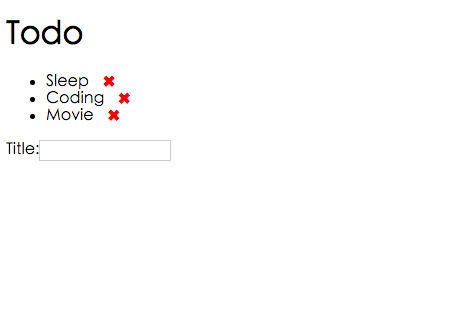
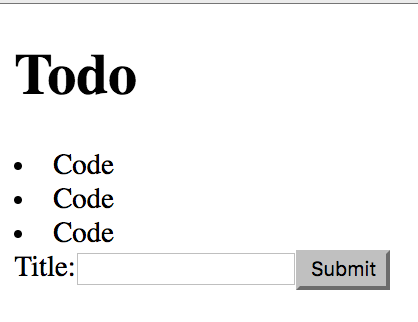
added live coding

diff --git a/example/src/index.js b/example/src/index.js
@@ -24,7 +24,8 @@ const images = {
   component3: require('../assets/component3.png'),
   component4: require('../assets/component4.png'),
   component5: require('../assets/component5.png'),
-  todo: require('../assets/todolist.png'),
+  todo1: require('../assets/todolist.png'),
+  todo2: require('../assets/todolist2.png'),
   stateComp: require('../assets/stateful-stateless.jpg'),
   smartDumb: require('../assets/smart-dumb.png'),
 };
@@ -97,7 +98,7 @@ export default class Presentation extends React.Component {
               <Heading size={2} caps fit textColor="black" textFont="primary">
                 Build a Component for ...
               </Heading>
-              <Image src={images.todo} width='1000' />
+              <Image src={images.todo1} width='400' />
             </div>
           </Appear>
         </Slide>
@@ -120,7 +121,7 @@ export default class Presentation extends React.Component {
           <Heading size={2} caps fit textColor="black" textFont="primary">
             Another Live Coding.... Let's continue!!
           </Heading>
-          <Image src={images.todo} width='1000' />
+          <Image src={images.todo2} width='400' />
         </Slide>
         <Slide id="live-coding2-res" transition={["slide"]} bgColor="black" align='center'>
           <CodePane lang="jsx" source={require("raw-loader!../assets/code/live-coding-2.example")} margin="20px auto" />
@@ -140,6 +141,30 @@ export default class Presentation extends React.Component {
         </Slide>
         <Slide id="smart-dumb" transition={["slide"]} bgColor="white" >
           <Image src={images.smartDumb} width='1000'/>
+        </Slide>
+        <Slide id="smart-dumb-1" transition={["slide"]} bgColor="black" align='center'>
+          <CodePane lang="jsx" source={require("raw-loader!../assets/code/smart-dumb-comp1.example")} margin="20px auto" />
+        </Slide>
+        <Slide id="smart-dumb-2" transition={["slide"]} bgColor="black" align='center'>
+          <Heading size={6} fit textColor="primary" textFont="primary">
+            Smart Component
+          </Heading>
+          <CodePane lang="jsx" source={require("raw-loader!../assets/code/smart-dumb-comp2.example")} margin="20px auto" />
+        </Slide>
+        <Slide id="smart-dumb-3" transition={["slide"]} bgColor="black" align='center'>
+          <Heading size={6} fit textColor="primary" textFont="primary">
+            DUHHHH Component
+          </Heading>
+          <CodePane lang="jsx" source={require("raw-loader!../assets/code/smart-dumb-comp3.example")} margin="20px auto" />
+        </Slide>
+        <Slide id="smart-dumb-3-1" transition={["slide"]} bgColor="black" align='center'>
+          <Heading size={6} fit textColor="primary" textFont="primary">
+            One Liner to the rescue!!!
+          </Heading>
+          <CodePane lang="jsx" source={require("raw-loader!../assets/code/smart-dumb-comp-3-1.example")} margin="20px auto" />
+          <Appear>
+            <CodePane lang="jsx" source={require("raw-loader!../assets/code/smart-dumb-comp-3-2.example")} margin="20px auto" />
+          </Appear>
         </Slide>
         <Slide id="react-intro-3" transition={["slide"]} bgColor="black">
           <Heading size={2} caps fit textColor="primary" textFont="primary" display="absolute">
